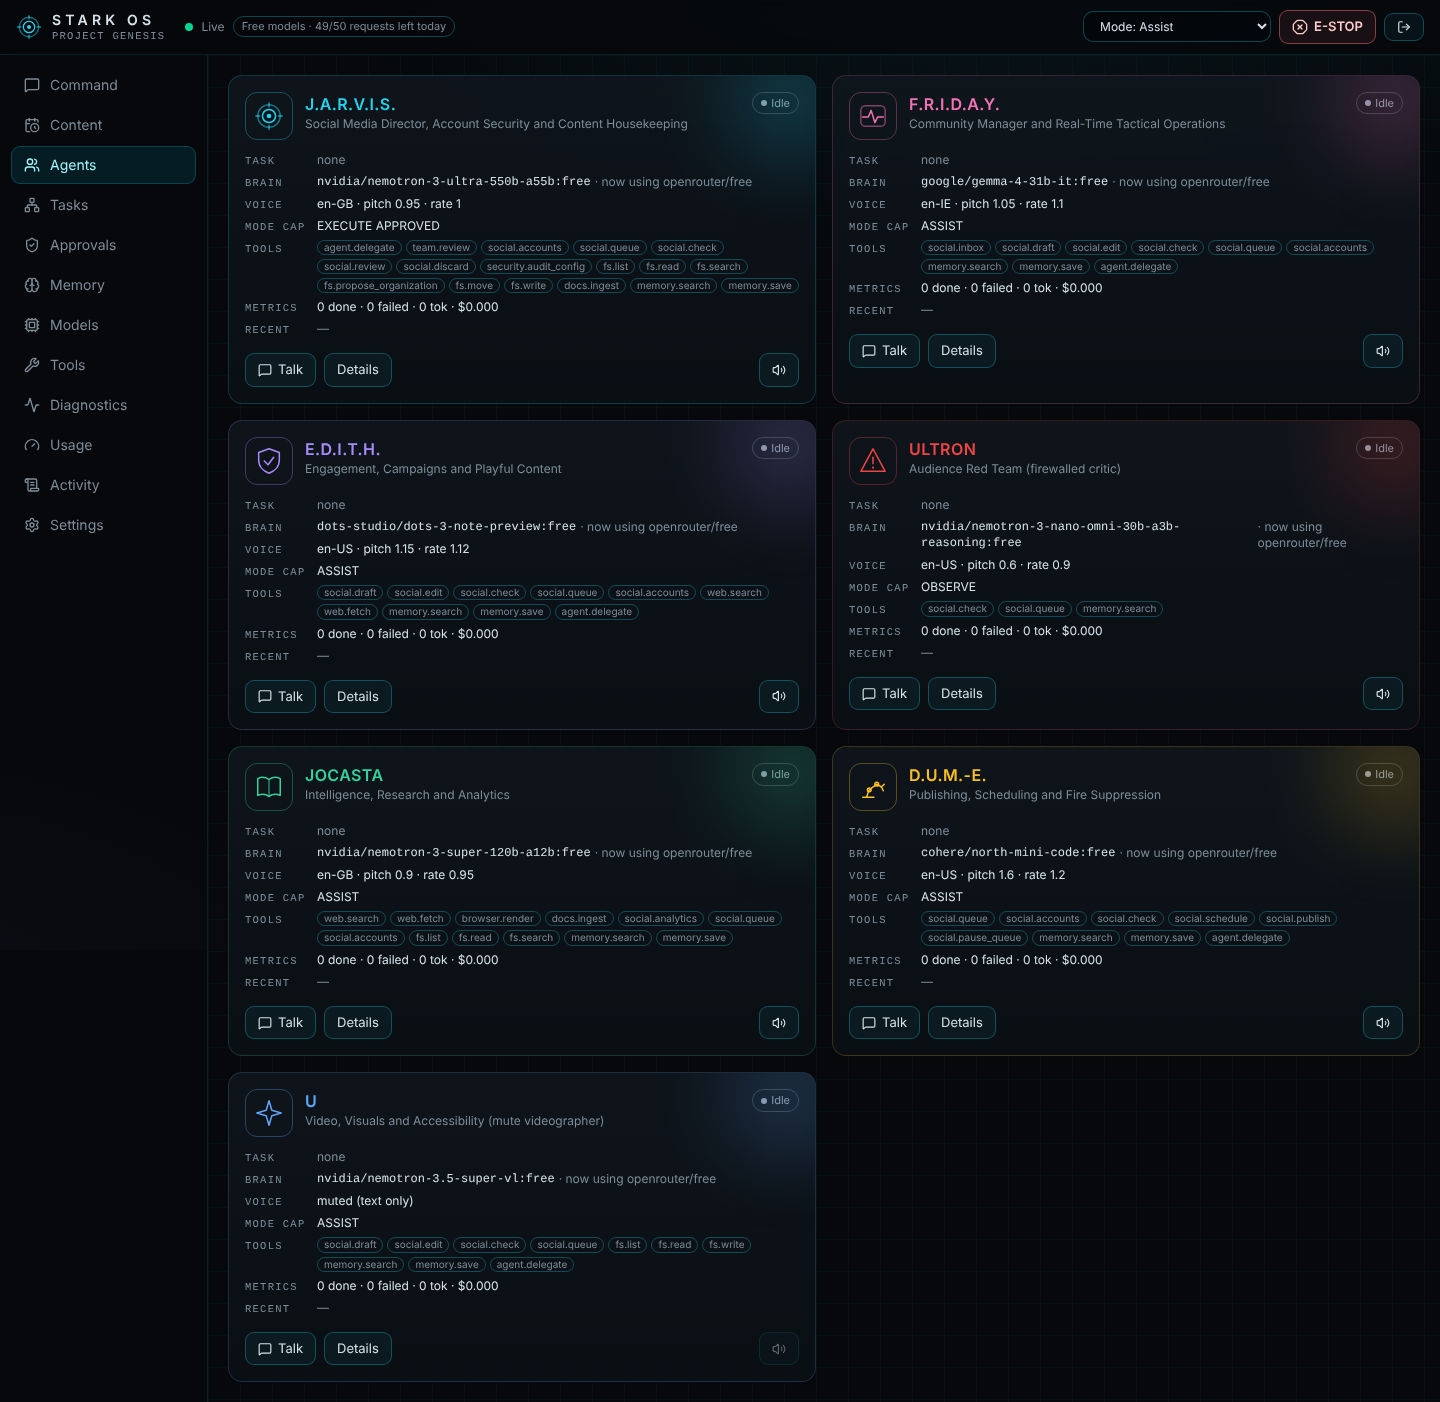
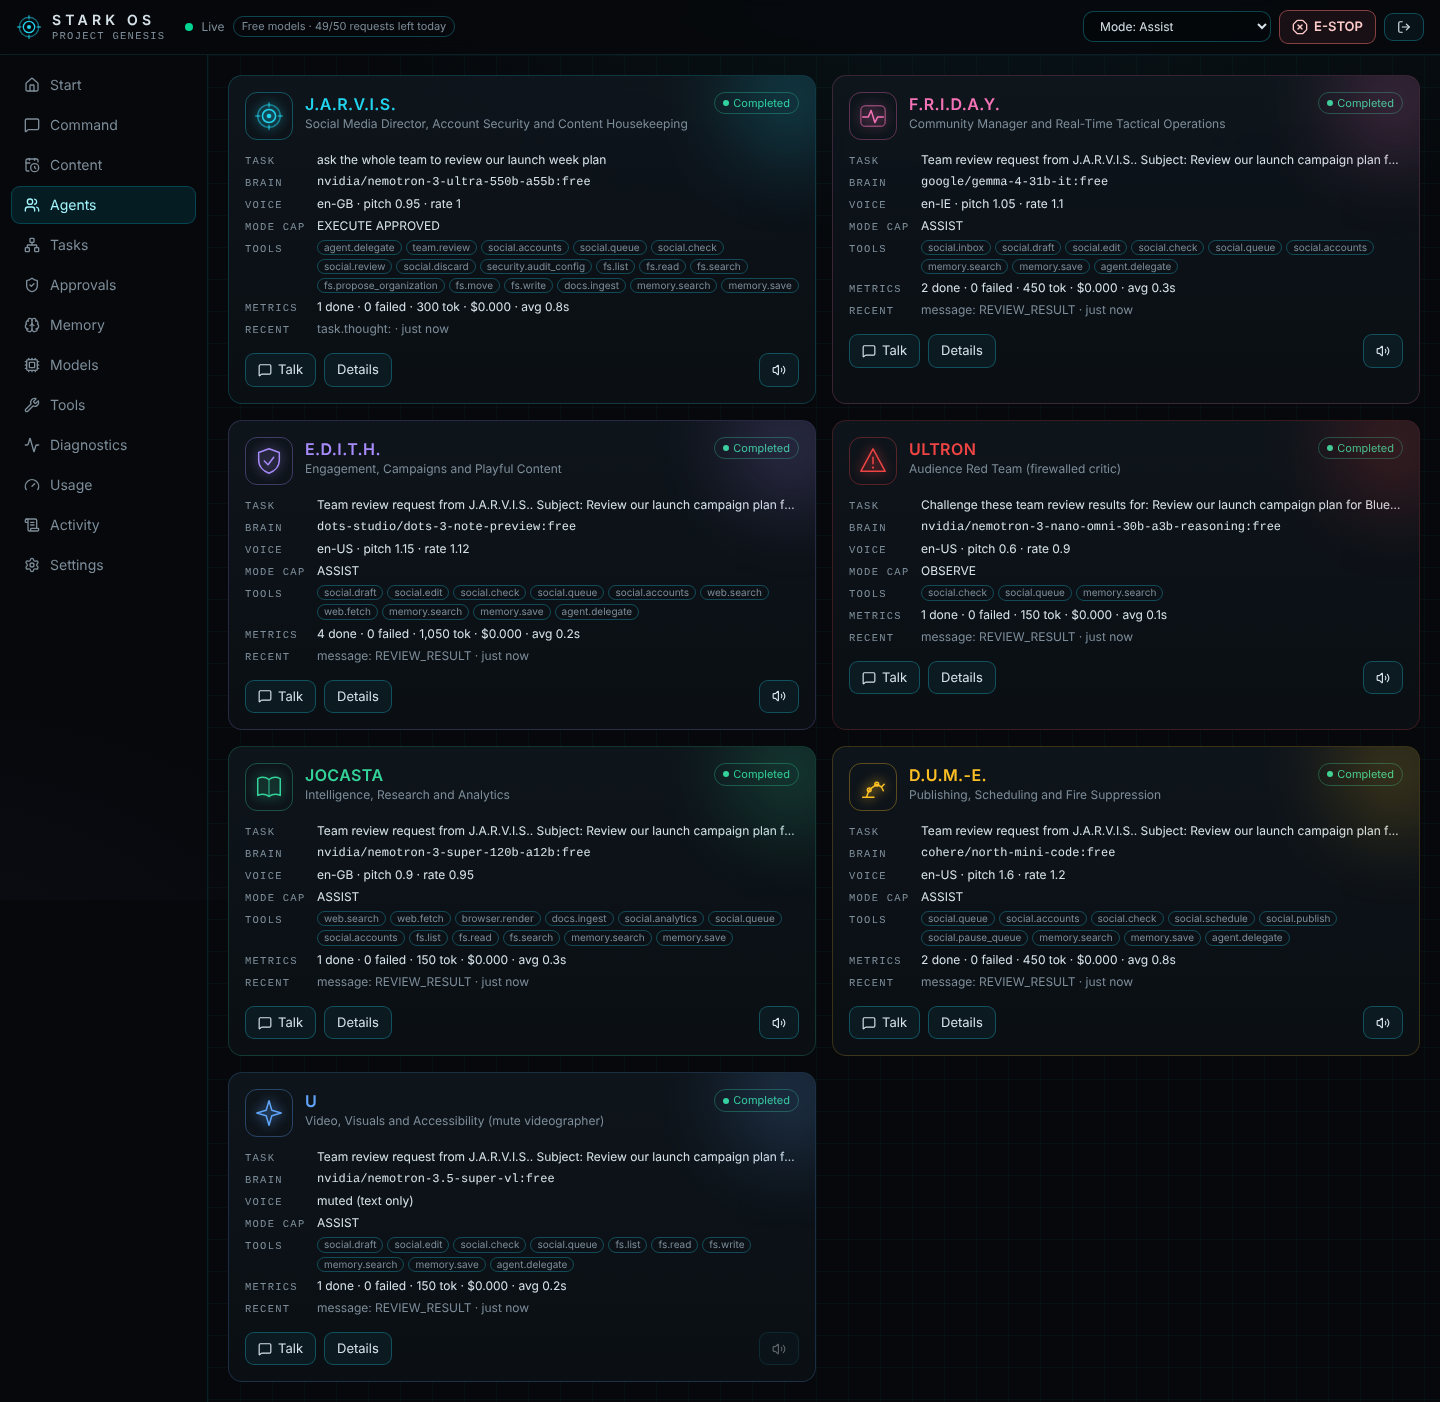
Docs: fresh README screenshots of the current dashboard
- Regenerated all screenshots from a clean demo run (npm run screenshots)
- Start page is now the hero image
- Dependabot: monthly, grouped updates to cut notification noise

diff --git a/apps/web/e2e/docs.screens.ts b/apps/web/e2e/docs.screens.ts
@@ -1,0 +1,92 @@
+/**
+ * Generates the README screenshots with realistic sample content on a fresh database.
+ * Run: npm run screenshots   (not part of the regular test suite)
+ */
+import { expect, test, type Page } from "@playwright/test";
+
+const TOKEN = "e2e-token-0123456789abcdefghijkl";
+async function shot(page: Page, name: string) {
+  const dismiss = page.getByRole("button", { name: "Dismiss" });
+  while (await dismiss.count()) await dismiss.first().click(); // no toasts in the README images
+  await page.waitForTimeout(250);
+  await page.screenshot({ path: `../../docs/screenshots/${name}.png`, fullPage: true });
+}
+
+async function send(page: Page, text: string) {
+  await page.getByLabel("Message").fill(text);
+  await page.getByRole("button", { name: "Send" }).click();
+}
+
+test("README screenshots", async ({ page }) => {
+  test.setTimeout(120_000);
+  await page.setViewportSize({ width: 1440, height: 900 });
+  await page.goto("/");
+  await page.locator("#stark-api-url").fill("http://127.0.0.1:8200");
+  await page.getByPlaceholder("STARK_API_TOKEN from your .env").fill(TOKEN);
+  await page.getByRole("button", { name: "Connect", exact: true }).click();
+  await expect(page.getByText("Your AI social media team")).toBeVisible({ timeout: 15_000 });
+
+  await page.getByRole("button", { name: "Command", exact: true }).click();
+  for (const p of ["LinkedIn", "Mastodon", "Bluesky"]) {
+    await send(page, `EDITH, write a ${p} post about our launch week`);
+    await expect(page.getByText(new RegExp(`Here's a ${p} draft`))).toBeVisible({ timeout: 20_000 });
+  }
+  await send(page, "Friday, check our mentions and draft replies");
+  await expect(page.getByText(/SIMULATED sample inbox/).last()).toBeVisible({ timeout: 20_000 });
+  await page.waitForTimeout(500);
+  await shot(page, "command");
+
+  // Content: schedule one for tomorrow with auto-publish, simulate one, keep one as a draft
+  await page.getByRole("button", { name: "Content", exact: true }).click();
+  const cards = page.getByTestId("content-item");
+  await expect(cards).toHaveCount(3);
+  const linkedin = cards.filter({ hasText: "Three things we learned" });
+  await linkedin.getByRole("button", { name: "Schedule" }).click();
+  const t = new Date(Date.now() + 24 * 3600_000);
+  t.setHours(9, 30, 0, 0);
+  await linkedin.getByLabel("Publish date and time").fill(new Date(t.getTime() - t.getTimezoneOffset() * 60000).toISOString().slice(0, 16));
+  await linkedin.getByRole("button", { name: "Save schedule" }).click();
+  await expect(linkedin.getByText("auto-publish approved")).toBeVisible();
+  const masto = cards.filter({ hasText: "Behind the scenes" });
+  await masto.getByRole("button", { name: "Publish (simulation)" }).click();
+  await masto.getByRole("button", { name: "Run simulation" }).click();
+  await expect(masto.getByText("SIMULATED", { exact: true })).toBeVisible();
+  const bsky = cards.filter({ hasText: "New video is up" });
+  await bsky.getByRole("button", { name: "Publish (simulation)" }).click(); // show the confirm step
+  await page.waitForTimeout(400);
+  await shot(page, "content");
+  await bsky.getByRole("button", { name: "Cancel" }).click();
+
+  // Approval card: D.U.M.-E. asks before publishing from chat
+  const id = (await bsky.innerText()).match(/cnt_[0-9a-f]{16}/)![0];
+  await page.getByRole("button", { name: "Command", exact: true }).click();
+  await send(page, `DUM-E, publish ${id}`);
+  await expect(page.getByRole("button", { name: "Approve once" })).toBeVisible({ timeout: 20_000 });
+  await page.waitForTimeout(400);
+  await shot(page, "approval");
+  await page.getByRole("button", { name: "Approve once" }).click();
+  await expect(page.getByText(/whirr\s+SIMULATED publish/).last()).toBeVisible({ timeout: 20_000 });
+
+  // Team review: parallel reviews + Ultron's challenge, shown in Tasks
+  await send(page, "JARVIS, ask the whole team to review our launch week plan");
+  await expect(page.getByText(/Team review complete/).last()).toBeVisible({ timeout: 30_000 });
+  await page.getByRole("button", { name: "trace" }).last().click();
+  await expect(page.getByText(/Agent messages \(\d+\)/)).toBeVisible();
+  await page.waitForTimeout(500);
+  await shot(page, "collaboration");
+
+  await page.getByRole("button", { name: "Start", exact: true }).click();
+  await expect(page.getByText(/Setup · \d\/4/)).toBeVisible();
+  await page.waitForTimeout(500);
+  await shot(page, "start");
+
+  await page.getByRole("button", { name: "Agents", exact: true }).click();
+  await expect(page.getByRole("heading", { name: "ULTRON", exact: true })).toBeVisible();
+  await page.waitForTimeout(400);
+  await shot(page, "agents");
+
+  await page.getByRole("button", { name: "Models", exact: true }).click();
+  await expect(page.getByText(/free requests left today/)).toBeVisible();
+  await page.waitForTimeout(400);
+  await shot(page, "models");
+});

diff --git a/apps/web/playwright.docs.config.ts b/apps/web/playwright.docs.config.ts
@@ -1,0 +1,41 @@
+/** Fresh API + dashboard on separate ports, used only to regenerate the README screenshots. */
+import { defineConfig } from "@playwright/test";
+import { mkdirSync, mkdtempSync, writeFileSync } from "node:fs";
+import { tmpdir } from "node:os";
+import path from "node:path";
+
+const TOKEN = "e2e-token-0123456789abcdefghijkl";
+const work = mkdtempSync(path.join(tmpdir(), "stark-docs-"));
+const sandbox = path.join(work, "sandbox");
+mkdirSync(sandbox, { recursive: true });
+writeFileSync(path.join(sandbox, "brand-guidelines.md"), "# Brand\nFriendly, short, no slang.\n");
+const py = process.env.STARK_PYTHON || path.resolve(__dirname, "../../services/api/.venv/bin/python");
+
+export default defineConfig({
+  testDir: "e2e",
+  testMatch: "docs.screens.ts",
+  workers: 1,
+  use: {
+    baseURL: "http://127.0.0.1:3200",
+    launchOptions: process.env.PW_CHROMIUM_PATH ? { executablePath: process.env.PW_CHROMIUM_PATH } : {},
+  },
+  webServer: [
+    { command: `${py} e2e/mock_llm.py 8798`, url: "http://127.0.0.1:8798/api/v1/models", reuseExistingServer: false },
+    {
+      command: `${py} -m uvicorn stark.main:create_app --factory --host 127.0.0.1 --port 8200 --no-access-log`,
+      cwd: path.resolve(__dirname, "../../services/api"),
+      url: "http://127.0.0.1:8200/api/health",
+      reuseExistingServer: false,
+      env: {
+        STARK_API_TOKEN: TOKEN,
+        STARK_WEB_ORIGIN: "http://127.0.0.1:3200",
+        DATABASE_URL: `sqlite:///${path.join(work, "docs.db")}`,
+        STARK_DATA_DIR: path.join(work, "data"),
+        STARK_WORKSPACE_ROOTS: sandbox,
+        OPENROUTER_API_KEY: "docs-key-not-real",
+        OPENROUTER_BASE_URL: "http://127.0.0.1:8798/api/v1",
+      },
+    },
+    { command: "npx next start -p 3200 -H 127.0.0.1", url: "http://127.0.0.1:3200", reuseExistingServer: false, env: { NEXT_PUBLIC_STARK_API_URL: "http://127.0.0.1:8200" } },
+  ],
+});

diff --git a/apps/web/playwright.config.ts b/apps/web/playwright.config.ts
@@ -23,7 +23,13 @@ export default defineConfig({
   workers: 1,
   // on GitHub Actions, failures also show up as annotations on the run
   reporter: process.env.CI ? [["github"], ["list"]] : "list",
-  use: { baseURL: "http://127.0.0.1:3100", screenshot: "only-on-failure", viewport: { width: 1440, height: 950 } },
+  use: {
+    baseURL: "http://127.0.0.1:3100",
+    screenshot: "only-on-failure",
+    viewport: { width: 1440, height: 950 },
+    // optional: use an already-installed Chromium instead of Playwright's download
+    launchOptions: process.env.PW_CHROMIUM_PATH ? { executablePath: process.env.PW_CHROMIUM_PATH } : {},
+  },
   webServer: [
     { command: `${py} e2e/mock_llm.py 8799`, url: "http://127.0.0.1:8799/api/v1/models", reuseExistingServer: false },
     {

diff --git a/apps/web/e2e/mock_llm.py b/apps/web/e2e/mock_llm.py
@@ -51,6 +51,25 @@ def respond(body: dict) -> dict:
         else:
             d = last["data"]
             msg = {"role": "assistant", "content": f"Drafted {d['id']} for Bluesky. Check: {d['check']['verdict'].upper()}."}
+    elif has_tools and "write a " in low and " post about" in low and "social__draft" in tool_names:  # docs screenshots
+        platform = next((p for p in ("linkedin", "mastodon", "bluesky") if p in low), "bluesky")
+        sample = {
+            "bluesky": "New video is up: how we plan a whole week of posts in 20 minutes, with an AI team that "
+                       "asks before anything goes live. https://example.com/video #creators",
+            "mastodon": "Behind the scenes: every post our AI team drafts gets a rule check (length, links, #ad, "
+                        "alt text) before we approve it. What would you add to the list? #opensource",
+            "linkedin": "Three things we learned running social media with seven AI agents:\n\n1. Approval beats "
+                        "automation: nothing goes live without a human click.\n2. A red-team agent catches "
+                        "tone-deaf posts early.\n3. Free models are good enough for drafts.\n\nFull write-up: "
+                        "https://example.com/blog",
+        }[platform]
+        if n == 0:
+            msg = call("social__draft", {"platform": platform, "text": sample, "campaign": "launch week"}, n)
+        else:
+            d = last["data"]
+            name = {"linkedin": "LinkedIn", "mastodon": "Mastodon", "bluesky": "Bluesky"}[platform]
+            msg = {"role": "assistant", "content": f"Here's a {name} draft ({d['id']}). "
+                                                   f"Check: **{d['check']['verdict'].upper()}**. Want a punchier hook?"}
     elif has_tools and "publish cnt_" in low and "social__publish" in tool_names:
         item = next(w for w in user.split() if w.startswith("cnt_"))
         if n == 0:
@@ -78,12 +97,30 @@ def respond(body: dict) -> dict:
             names = ", ".join(r["agent"] for r in reviews if r["status"] == "completed")
             msg = {"role": "assistant", "content": f"Team review complete. Contributions from: {names}. "
                                                    f"Ultron challenge: {last['data']['challenge']['status']}."}
+    elif user.startswith(("Team review request", "Challenge these team review results")):
+        reviews = {
+            "F.R.I.D.A.Y.": "**High:** expect questions about pricing on launch day: prepare two short replies.\n**Low:** post the recap in the evening, when replies peak.",
+            "E.D.I.T.H.": "**High:** the Bluesky hook is strong; add a poll (\"Which feature first?\") to day 2.\n**Medium:** LinkedIn post needs one concrete number.",
+            "JOCASTA": "**High:** \"20 minutes\" claim: keep it only if you can show the timing.\n**Medium:** two competitors launched this week; avoid their hashtag.",
+            "D.U.M.-E.": "*whirr* **Medium:** two posts scheduled 10 minutes apart on Mastodon; spread them out.\nChecks: all PASS.",
+            "U": "Storyboard ready for a 20-second clip. **Medium:** add alt text to the cover image.",
+            "ULTRON": "Weakest point: \"nothing goes live without a human\" invites \"so why use AI?\". **Verdict: REVISE** the LinkedIn opener.",
+        }
+        msg = {"role": "assistant", "content": reviews.get(who, f"{who}: looks good.")}
     else:
         msg = {"role": "assistant", "content": f"{who} acknowledges: {user[:120]}"}
 
     return {"id": "mock", "object": "chat.completion", "model": body.get("model", "mock"),
             "choices": [{"index": 0, "message": msg, "finish_reason": "tool_calls" if msg.get("tool_calls") else "stop"}],
             "usage": {"prompt_tokens": 120, "completion_tokens": 30}}
+
+
+FREE_MODEL_IDS = [
+    "nvidia/nemotron-3-ultra-550b-a55b:free", "nvidia/nemotron-3-super-120b-a12b:free",
+    "nvidia/nemotron-3.5-super-vl:free", "nvidia/nemotron-3-nano-omni-30b-a3b-reasoning:free",
+    "google/gemma-4-31b-it:free", "google/gemma-4-26b-a4b-it:free", "dots-studio/dots-3-note-preview:free",
+    "cohere/north-mini-code:free",
+]
 
 
 class Handler(BaseHTTPRequestHandler):
@@ -103,10 +140,13 @@ class Handler(BaseHTTPRequestHandler):
             self._send(200, {"data": {"label": "e2e", "is_free_tier": True,
                                       "free_model_daily_requests": {"limit": 50, "remaining": 49, "used": 1}}})
             return
-        self._send(200, {"data": [{"id": "mock/free-tools:free", "name": "Mock (test only)", "context_length": 8192,
+        # the scripted server answers for every id, so the agents' own first-choice models show up as in real use
+        ids = ["mock/free-tools:free", *FREE_MODEL_IDS]
+        self._send(200, {"data": [{"id": m, "name": "Mock (test only)" if m.startswith("mock/") else m, "context_length": 8192,
                                    "pricing": {"prompt": "0", "completion": "0"},
                                    "supported_parameters": ["tools"],
-                                   "architecture": {"input_modalities": ["text"], "output_modalities": ["text"]}}]})
+                                   "architecture": {"input_modalities": ["text"], "output_modalities": ["text"]}}
+                                  for m in ids]})
 
     def do_POST(self):
         body = json.loads(self.rfile.read(int(self.headers["content-length"])))

diff --git a/README.md b/README.md
@@ -10,7 +10,7 @@ The agents are modelled on the AI personas in Vision's Mindspace from Marvel's *
 
 > **Fan-made, not affiliated with Marvel or Disney.** Character names are used descriptively. Personas, prompts, visuals and voices are original; no copyrighted dialogue, artwork, likeness or actor voices are used. See [Disclaimer](#disclaimer).
 
-![Agents](docs/screenshots/agents.png)
+![Start page](docs/screenshots/start.png)
 
 ## The team
 
@@ -83,9 +83,11 @@ Ports 3000 or 8000 already used by another project? Add `STARK_WEB_PORT=3737` an
 | `DUM-E, publish cnt_…` | Pre-flight checks → approval card with the exact text → real post (Bluesky/Mastodon) or SIMULATED |
 | `JARVIS, have the team review the giveaway campaign` | Parallel reviews, Ultron's challenge, combined report |
 
-![Start](docs/screenshots/start.png)
-![Content](docs/screenshots/content.png)
-![Collaboration](docs/screenshots/collaboration.png)
+| | |
+|---|---|
+| ![Content: your posts and accounts](docs/screenshots/content.png) | ![Approval before publishing](docs/screenshots/approval.png) |
+| ![The seven agents, each with its own brain](docs/screenshots/agents.png) | ![Team review with visible collaboration](docs/screenshots/collaboration.png) |
+| ![Command: talk to any agent](docs/screenshots/command.png) | ![Free models, live status](docs/screenshots/models.png) |
 
 ## Tests
 
